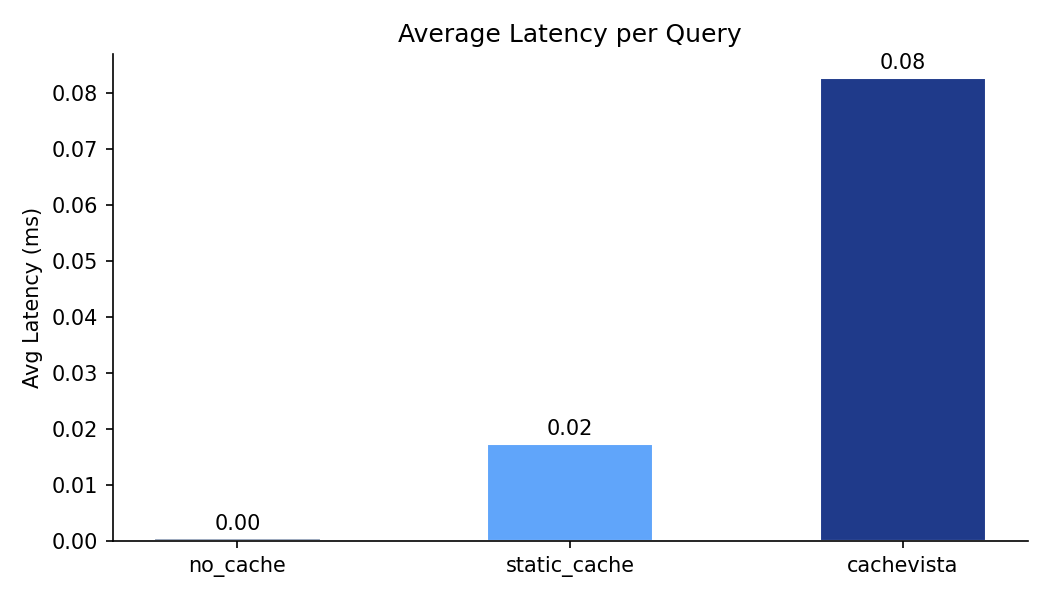
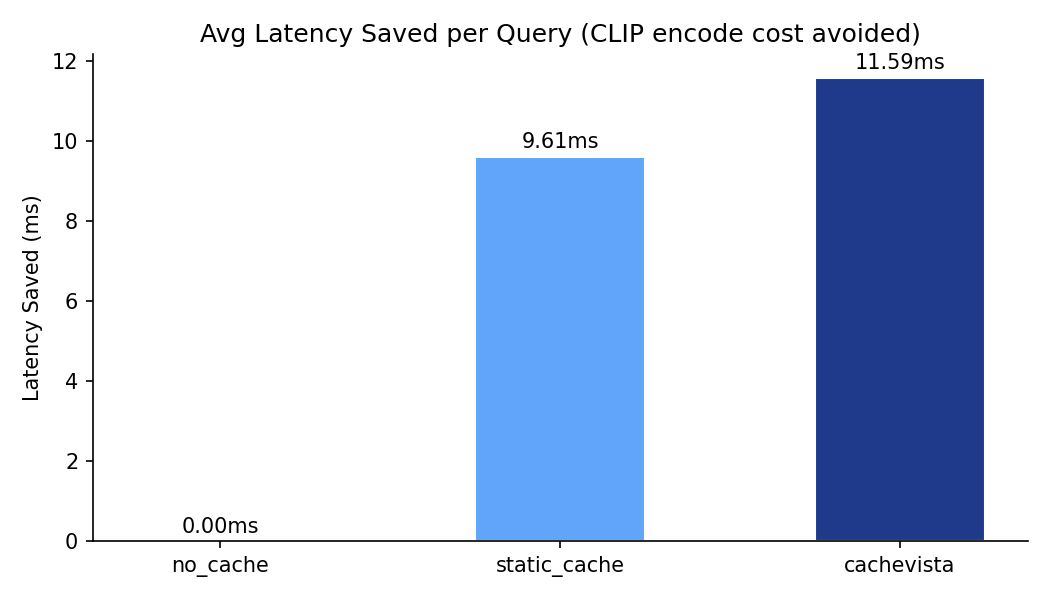
fix: replacing plots, keepin only what is needed

diff --git a/scripts/plot_results.py b/scripts/plot_results.py
@@ -14,27 +14,38 @@ with open(results_dir / "benchmark.csv") as f:
 
 strategies = [r["strategy"] for r in rows]
 hit_rates = [float(r["hit_rate"]) * 100 for r in rows]
-latencies = [float(r["avg_latency_ms"]) for r in rows]
-energies = [float(r["energy_kg_co2"]) * 1e9 for r in rows]
+latency_saved = [float(r["latency_saved_ms"]) for r in rows]
 
 colors = ["#94A3B8", "#60A5FA", "#1F3A8A"]
 
 
-def bar_chart(values, ylabel, title, filename, color_list):
+def bar_chart(values, ylabel, title, filename, unit=""):
     fig, ax = plt.subplots(figsize=(7, 4))
-    bars = ax.bar(strategies, values, color=color_list, width=0.5, edgecolor="white")
+    bars = ax.bar(strategies, values, color=colors, width=0.5, edgecolor="white")
     ax.set_ylabel(ylabel)
     ax.set_title(title)
     ax.spines[["top", "right"]].set_visible(False)
     for bar, val in zip(bars, values):
-        ax.text(bar.get_x() + bar.get_width()/2, bar.get_height() + max(values)*0.01,
-                f"{val:.2f}", ha="center", va="bottom", fontsize=10)
+        label = f"{val:.2f}{unit}"
+        ax.text(
+            bar.get_x() + bar.get_width() / 2,
+            bar.get_height() + max(values) * 0.01,
+            label,
+            ha="center",
+            va="bottom",
+            fontsize=10,
+        )
     plt.tight_layout()
     plt.savefig(figures_dir / filename, dpi=150)
     plt.close()
     print(f"saved {filename}")
 
 
-bar_chart(hit_rates, "Hit Rate (%)", "Cache Hit Rate by Strategy", "hit_rate.png", colors)
-bar_chart(latencies, "Avg Latency (ms)", "Average Latency per Query", "latency.png", colors)
-bar_chart(energies, "Energy (nkg CO2)", "Energy Consumption by Strategy", "energy.png", colors)
+bar_chart(hit_rates, "Hit Rate (%)", "Cache Hit Rate by Strategy", "hit_rate.png", "%")
+bar_chart(
+    latency_saved,
+    "Latency Saved (ms)",
+    "Avg Latency Saved per Query (CLIP encode cost avoided)",
+    "latency.png",
+    "ms",
+)
